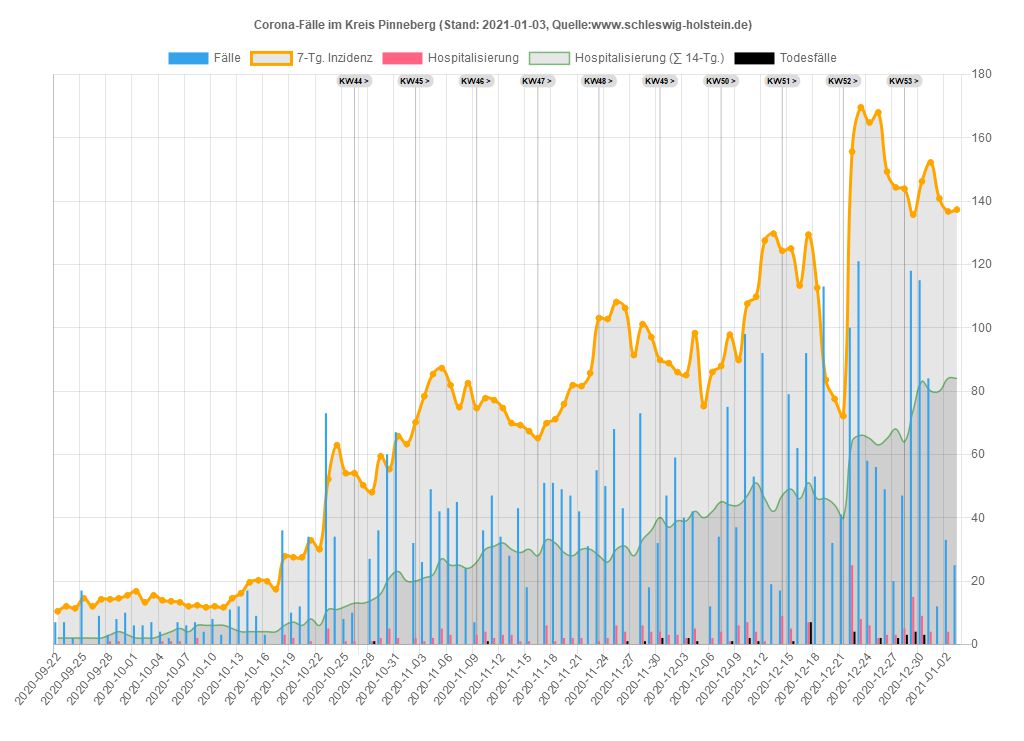
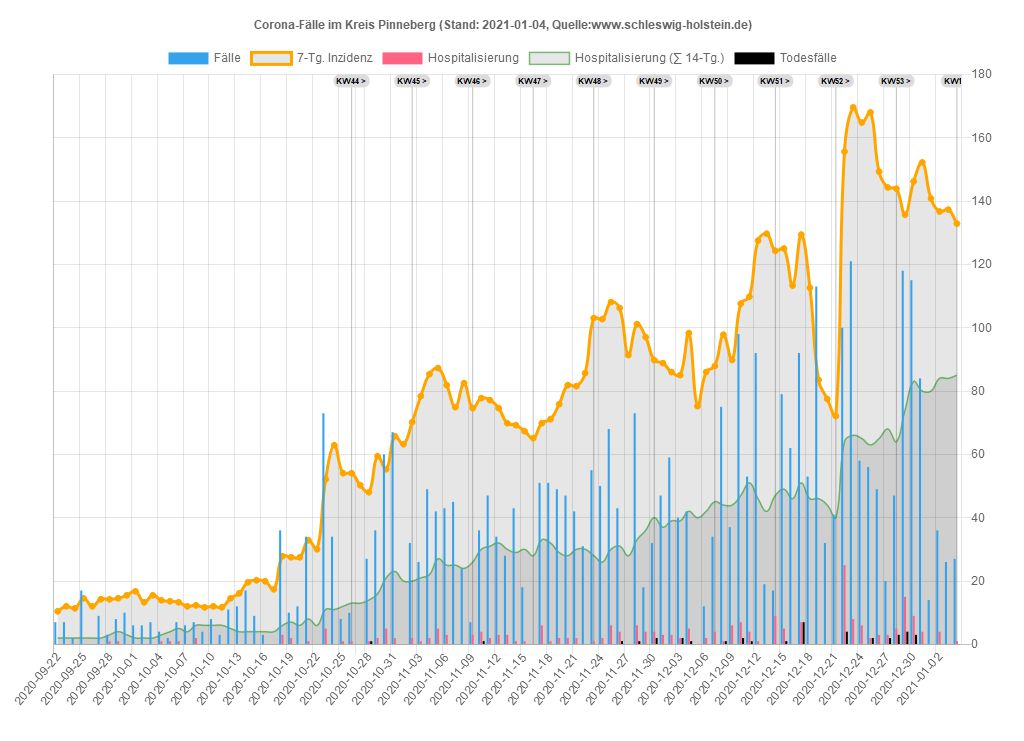
04.01.2021 20:30:50,16

Changed region(s): [[0.0938, 0.0931, 0.9375, 0.9622]]

diff --git a/sh/Data_SH.js b/sh/Data_SH.js
@@ -1,34 +1,34 @@
 var chdata={
-labels: ["2020-09-22","2020-09-23","2020-09-24","2020-09-25","2020-09-26","2020-09-27","2020-09-28","2020-09-29","2020-09-30","2020-10-01","2020-10-02","2020-10-03","2020-10-04","2020-10-05","2020-10-06","2020-10-07","2020-10-08","2020-10-09","2020-10-10","2020-10-11","2020-10-12","2020-10-13","2020-10-14","2020-10-15","2020-10-16","2020-10-17","2020-10-18","2020-10-19","2020-10-20","2020-10-21","2020-10-22","2020-10-23","2020-10-24","2020-10-25","2020-10-26","2020-10-27","2020-10-28","2020-10-29","2020-10-30","2020-10-31","2020-11-01","2020-11-02","2020-11-03","2020-11-04","2020-11-05","2020-11-06","2020-11-07","2020-11-08","2020-11-09","2020-11-10","2020-11-11","2020-11-12","2020-11-13","2020-11-14","2020-11-15","2020-11-16","2020-11-17","2020-11-18","2020-11-19","2020-11-20","2020-11-21","2020-11-22","2020-11-23","2020-11-24","2020-11-25","2020-11-26","2020-11-27","2020-11-28","2020-11-29","2020-11-30","2020-12-01","2020-12-02","2020-12-03","2020-12-04","2020-12-05","2020-12-06","2020-12-07","2020-12-08","2020-12-09","2020-12-10","2020-12-11","2020-12-12","2020-12-13","2020-12-14","2020-12-15","2020-12-16","2020-12-17","2020-12-18","2020-12-19","2020-12-20","2020-12-21","2020-12-22","2020-12-23","2020-12-24","2020-12-25","2020-12-26","2020-12-27","2020-12-28","2020-12-29","2020-12-30","2020-12-31","2021-01-01","2021-01-02","2021-01-03"],
+labels: ["2020-09-22","2020-09-23","2020-09-24","2020-09-25","2020-09-26","2020-09-27","2020-09-28","2020-09-29","2020-09-30","2020-10-01","2020-10-02","2020-10-03","2020-10-04","2020-10-05","2020-10-06","2020-10-07","2020-10-08","2020-10-09","2020-10-10","2020-10-11","2020-10-12","2020-10-13","2020-10-14","2020-10-15","2020-10-16","2020-10-17","2020-10-18","2020-10-19","2020-10-20","2020-10-21","2020-10-22","2020-10-23","2020-10-24","2020-10-25","2020-10-26","2020-10-27","2020-10-28","2020-10-29","2020-10-30","2020-10-31","2020-11-01","2020-11-02","2020-11-03","2020-11-04","2020-11-05","2020-11-06","2020-11-07","2020-11-08","2020-11-09","2020-11-10","2020-11-11","2020-11-12","2020-11-13","2020-11-14","2020-11-15","2020-11-16","2020-11-17","2020-11-18","2020-11-19","2020-11-20","2020-11-21","2020-11-22","2020-11-23","2020-11-24","2020-11-25","2020-11-26","2020-11-27","2020-11-28","2020-11-29","2020-11-30","2020-12-01","2020-12-02","2020-12-03","2020-12-04","2020-12-05","2020-12-06","2020-12-07","2020-12-08","2020-12-09","2020-12-10","2020-12-11","2020-12-12","2020-12-13","2020-12-14","2020-12-15","2020-12-16","2020-12-17","2020-12-18","2020-12-19","2020-12-20","2020-12-21","2020-12-22","2020-12-23","2020-12-24","2020-12-25","2020-12-26","2020-12-27","2020-12-28","2020-12-29","2020-12-30","2020-12-31","2021-01-01","2021-01-02","2021-01-03","2021-01-04"],
 datasets: [
 {label: 'Fälle',
 type: 'bar',
 backgroundColor: window.chartColors.blue,
-data: [38,42,63,53,15,15,38,48,49,27,50,16,24,39,54,45,79,54,26,25,65,65,65,55,90,26,88,163,111,160,136,236,142,115,164,164,280,215,313,265,161,142,236,262,220,274,233,177,215,252,247,192,296,158,161,100,294,208,264,250,153,121,145,251,256,225,180,219,71,81,244,240,245,318,234,154,183,314,297,529,384,472,140,241,486,322,602,508,431,157,211,776,722,306,229,229,202,260,483,528,340,102,290,212]},
+data: [38,42,63,53,15,15,38,48,49,27,50,16,24,39,54,45,79,54,26,25,65,65,65,55,90,26,88,163,111,160,136,236,142,115,164,164,280,215,313,265,161,142,236,262,220,274,233,177,215,252,247,192,296,158,161,100,294,208,264,250,153,121,145,251,256,225,180,219,71,81,244,240,245,318,234,154,183,314,297,529,384,472,140,241,486,322,602,508,431,157,211,776,722,306,229,229,202,260,483,528,340,102,290,212,236]},
 {label: '7-Tg. Inzidenz',
 type: 'line',
 pointBackgroundColor: 'orange',
 borderColor: 'orange',
-data: [7.23197027,7.88629139,8.74724023,9.40156135,9.33268544,9.16049567,9.09161977,9.4359993,9.67706498,8.43729865,8.33398478,8.36842274,8.67836432,8.71280227,8.91943,8.78167818,10.5724518,10.7102036,11.0545831,11.0890211,11.9844079,12.3632254,13.0519844,12.2254735,13.4652399,13.4652399,15.634831,19.0097504,20.5938963,23.8655019,26.6549761,31.6829174,35.67772,36.6075447,36.6419827,38.4671942,42.5997487,45.320347,47.9720694,52.2079377,53.7920836,53.0344486,55.5139813,54.8940981,55.0662879,53.7232077,52.6211932,53.1722004,55.6861711,56.2371783,55.720609,54.7563463,55.5139813,52.9311348,52.3801275,48.4197628,49.8661569,48.5230767,51.0026094,49.4184635,49.2462737,47.8687556,49.4184635,47.9376315,49.5906533,48.2475731,45.8369163,48.1098213,46.3879236,44.1838945,43.9428289,43.3918216,44.0805807,48.8330183,49.3495876,52.2079377,55.720609,58.1312658,60.0942291,69.874608,72.1475129,80.3437459,79.8616145,81.8590158,87.7823439,88.6432927,91.1572633,95.4275696,94.0156135,94.6010587,93.5679201,103.554927,117.330108,107.136474,97.5282848,90.5718181,92.121526,93.8089858,83.7186653,77.0377023,78.2085928,73.8349726,75.9356878,76.2800673]},
+data: [7.23197027,7.88629139,8.74724023,9.40156135,9.33268544,9.16049567,9.09161977,9.4359993,9.67706498,8.43729865,8.33398478,8.36842274,8.67836432,8.71280227,8.91943,8.78167818,10.5724518,10.7102036,11.0545831,11.0890211,11.9844079,12.3632254,13.0519844,12.2254735,13.4652399,13.4652399,15.634831,19.0097504,20.5938963,23.8655019,26.6549761,31.6829174,35.67772,36.6075447,36.6419827,38.4671942,42.5997487,45.320347,47.9720694,52.2079377,53.7920836,53.0344486,55.5139813,54.8940981,55.0662879,53.7232077,52.6211932,53.1722004,55.6861711,56.2371783,55.720609,54.7563463,55.5139813,52.9311348,52.3801275,48.4197628,49.8661569,48.5230767,51.0026094,49.4184635,49.2462737,47.8687556,49.4184635,47.9376315,49.5906533,48.2475731,45.8369163,48.1098213,46.3879236,44.1838945,43.9428289,43.3918216,44.0805807,48.8330183,49.3495876,52.2079377,55.720609,58.1312658,60.0942291,69.874608,72.1475129,80.3437459,79.8616145,81.8590158,87.7823439,88.6432927,91.1572633,95.4275696,94.0156135,94.6010587,93.5679201,103.554927,117.330108,107.136474,97.5282848,90.5718181,92.121526,93.8089858,83.7186653,77.0377023,78.2085928,73.8349726,75.9356878,76.2800673,75.4535565]},
 {label: 'Hospitalisierung',
 type: 'bar',
 backgroundColor: window.chartColors.red,
-data: [1,2,7,1,0,0,2,1,3,1,1,0,4,3,1,1,4,2,0,3,5,1,1,2,4,0,9,10,8,9,12,7,5,6,7,7,11,10,11,6,3,9,19,20,15,15,5,7,13,15,21,13,17,8,17,13,23,10,15,9,7,7,13,16,26,19,12,14,15,10,12,8,10,14,3,5,24,13,26,20,14,12,6,26,27,16,20,18,8,13,13,43,35,23,17,21,26,25,46,33,33,7,20,11]},
+data: [1,2,7,1,0,0,2,1,3,1,1,0,4,3,1,1,4,2,0,3,5,1,1,2,4,0,9,10,8,9,12,7,5,6,7,7,11,10,11,6,3,9,19,20,15,15,5,7,13,15,21,13,17,8,17,13,23,10,15,9,7,7,13,16,26,19,12,14,15,10,12,8,10,14,3,5,24,13,26,20,14,12,6,26,27,16,20,18,8,13,13,43,35,23,17,21,26,25,46,33,33,7,20,11,24]},
 {label: 'Hosp. (∑ 14-Tg.)',
 type: 'line',
 hidden: true,
 borderColor: 'rgba(0,255,0,0.5)',
 borderWidth: 1.5,
 pointRadius: 0,
-data: [12,12,20,22,22,22,22,23,23,21,22,21,24,26,26,25,22,23,23,26,29,29,27,28,31,31,36,43,50,58,66,71,76,79,81,87,97,105,112,118,112,111,122,133,136,144,144,145,151,159,169,172,178,180,194,198,202,192,192,186,188,188,188,189,194,200,195,201,199,196,185,183,178,183,179,177,188,185,185,186,188,186,177,193,208,216,226,230,235,243,232,262,271,274,277,286,306,305,324,341,354,343,355,353]},
+data: [12,12,20,22,22,22,22,23,23,21,22,21,24,26,26,25,22,23,23,26,29,29,27,28,31,31,36,43,50,58,66,71,76,79,81,87,97,105,112,118,112,111,122,133,136,144,144,145,151,159,169,172,178,180,194,198,202,192,192,186,188,188,188,189,194,200,195,201,199,196,185,183,178,183,179,177,188,185,185,186,188,186,177,193,208,216,226,230,235,243,232,262,271,274,277,286,306,305,324,341,354,343,355,353,364]},
 {label: 'Aktuell im Krankenhaus',
 type: 'line',
 pointBackgroundColor: 'green',
 borderColor: 'green',
-data: [6,6,6,6,6,6,6,11,11,11,11,14,14,15,15,14,14,14,13,13,18,18,18,21,24,24,24,24,31,31,31,31,51,51,58,58,58,58,58,58,58,94,110,114,119,118,124,120,126,116,113,119,112,116,116,148,145,151,141,141,141,141,155,142,122,113,118,118,118,124,114,110,109,114,114,114,131,122,128,132,133,133,133,177,181,194,201,212,236,250,275,271,267,262,262,262,262,309,318,322,346,346,376,376]},
+data: [6,6,6,6,6,6,6,11,11,11,11,14,14,15,15,14,14,14,13,13,18,18,18,21,24,24,24,24,31,31,31,31,51,51,58,58,58,58,58,58,58,94,110,114,119,118,124,120,126,116,113,119,112,116,116,148,145,151,141,141,141,141,155,142,122,113,118,118,118,124,114,110,109,114,114,114,131,122,128,132,133,133,133,177,181,194,201,212,236,250,275,271,267,262,262,262,262,309,318,322,346,346,376,376,390]},
 {label: 'Todesfälle',
 type: 'bar',
 backgroundColor: 'black',
-data: [0,0,0,0,0,0,0,1,0,0,0,0,0,0,0,0,0,0,0,0,0,1,0,0,0,0,0,0,0,0,1,0,0,3,0,0,3,4,1,0,2,6,7,2,2,6,0,1,4,3,5,0,5,1,3,5,0,2,2,2,1,0,3,4,1,3,3,1,4,2,3,1,4,1,0,1,4,2,5,7,7,1,2,2,6,7,11,3,2,0,9,15,4,3,4,7,10,18,17,14,2,0,0,0]},
+data: [0,0,0,0,0,0,0,1,0,0,0,0,0,0,0,0,0,0,0,0,0,1,0,0,0,0,0,0,0,0,1,0,0,3,0,0,3,4,1,0,2,6,7,2,2,6,0,1,4,3,5,0,5,1,3,5,0,2,2,2,1,0,3,4,1,3,3,1,4,2,3,1,4,1,0,1,4,2,5,7,7,1,2,2,6,7,11,3,2,0,9,15,4,3,4,7,10,18,17,14,2,0,0,0,1]},
 ]};
 

diff --git a/sh/Data_SH_Alter.js b/sh/Data_SH_Alter.js
@@ -114,7 +114,8 @@ var chdata={
 				{x: '2020-12-31', y: 'Alle', v: 78.5529723, casesum: 2281},{x: '2020-12-31', y: '00-09', v: 25.3192169, casesum: 65},{x: '2020-12-31', y: '10-19', v: 48.911803, casesum: 135},{x: '2020-12-31', y: '20-29', v: 109.700527, casesum: 351},{x: '2020-12-31', y: '30-39', v: 91.6423923, casesum: 308},{x: '2020-12-31', y: '40-49', v: 77.1690314, casesum: 272},{x: '2020-12-31', y: '50-59', v: 77.3111076, casesum: 383},{x: '2020-12-31', y: '60-69', v: 63.268506, casesum: 230},{x: '2020-12-31', y: '70-79', v: 61.8387394, casesum: 183},{x: '2020-12-31', y: '80-89', v: 134.196665, casesum: 240},{x: '2020-12-31', y: '90+', v: 395.613548, casesum: 114},
 				{x: '2021-01-01', y: 'Alle', v: 74.2482281, casesum: 2156},{x: '2021-01-01', y: '00-09', v: 24.5401641, casesum: 63},{x: '2021-01-01', y: '10-19', v: 46.7379451, casesum: 129},{x: '2021-01-01', y: '20-29', v: 103.137248, casesum: 330},{x: '2021-01-01', y: '30-39', v: 84.5014267, casesum: 284},{x: '2021-01-01', y: '40-49', v: 79.1549991, casesum: 279},{x: '2021-01-01', y: '50-59', v: 71.2554072, casesum: 353},{x: '2021-01-01', y: '60-69', v: 58.0419773, casesum: 211},{x: '2021-01-01', y: '70-79', v: 58.1216567, casesum: 172},{x: '2021-01-01', y: '80-89', v: 126.927679, casesum: 227},{x: '2021-01-01', y: '90+', v: 374.791782, casesum: 108},
 				{x: '2021-01-02', y: 'Alle', v: 76.2111914, casesum: 2213},{x: '2021-01-02', y: '00-09', v: 25.7087433, casesum: 66},{x: '2021-01-02', y: '10-19', v: 49.6364223, casesum: 137},{x: '2021-01-02', y: '20-29', v: 102.512173, casesum: 328},{x: '2021-01-02', y: '30-39', v: 86.2866681, casesum: 290},{x: '2021-01-02', y: '40-49', v: 78.5875798, casesum: 277},{x: '2021-01-02', y: '50-59', v: 68.6312704, casesum: 340},{x: '2021-01-02', y: '60-69', v: 58.5921382, casesum: 213},{x: '2021-01-02', y: '70-79', v: 62.8524893, casesum: 186},{x: '2021-01-02', y: '80-89', v: 142.583957, casesum: 255},{x: '2021-01-02', y: '90+', v: 419.905608, casesum: 121},
-				{x: '2021-01-03', y: 'Alle', v: 76.4522571, casesum: 2220},{x: '2021-01-03', y: '00-09', v: 26.0982697, casesum: 67},{x: '2021-01-03', y: '10-19', v: 51.4479705, casesum: 142},{x: '2021-01-03', y: '20-29', v: 106.887693, casesum: 342},{x: '2021-01-03', y: '30-39', v: 87.4768291, casesum: 294},{x: '2021-01-03', y: '40-49', v: 76.8853217, casesum: 271},{x: '2021-01-03', y: '50-59', v: 70.0442672, casesum: 347},{x: '2021-01-03', y: '60-69', v: 58.3170577, casesum: 212},{x: '2021-01-03', y: '70-79', v: 63.8662391, casesum: 189},{x: '2021-01-03', y: '80-89', v: 137.551582, casesum: 246},{x: '2021-01-03', y: '90+', v: 381.732371, casesum: 110}
+				{x: '2021-01-03', y: 'Alle', v: 76.4522571, casesum: 2220},{x: '2021-01-03', y: '00-09', v: 26.0982697, casesum: 67},{x: '2021-01-03', y: '10-19', v: 51.4479705, casesum: 142},{x: '2021-01-03', y: '20-29', v: 106.887693, casesum: 342},{x: '2021-01-03', y: '30-39', v: 87.4768291, casesum: 294},{x: '2021-01-03', y: '40-49', v: 76.8853217, casesum: 271},{x: '2021-01-03', y: '50-59', v: 70.0442672, casesum: 347},{x: '2021-01-03', y: '60-69', v: 58.3170577, casesum: 212},{x: '2021-01-03', y: '70-79', v: 63.8662391, casesum: 189},{x: '2021-01-03', y: '80-89', v: 137.551582, casesum: 246},{x: '2021-01-03', y: '90+', v: 381.732371, casesum: 110},
+				{x: '2021-01-04', y: 'Alle', v: 75.2469287, casesum: 2185},{x: '2021-01-04', y: '00-09', v: 23.7611112, casesum: 61},{x: '2021-01-04', y: '10-19', v: 53.6218284, casesum: 148},{x: '2021-01-04', y: '20-29', v: 101.262025, casesum: 324},{x: '2021-01-04', y: '30-39', v: 87.1792888, casesum: 293},{x: '2021-01-04', y: '40-49', v: 77.1690314, casesum: 272},{x: '2021-01-04', y: '50-59', v: 68.6312704, casesum: 340},{x: '2021-01-04', y: '60-69', v: 59.9675405, casesum: 218},{x: '2021-01-04', y: '70-79', v: 67.2454052, casesum: 199},{x: '2021-01-04', y: '80-89', v: 129.723443, casesum: 232},{x: '2021-01-04', y: '90+', v: 340.08884, casesum: 98}
 			],
 			backgroundColor: function(context) {
 				return inzColor(context.dataset.data[context.dataIndex].v)
@@ -122,7 +123,7 @@ var chdata={
 			width: function(context) {
 				const a = context.chart.chartArea
 				if (!a) return 0
-				return (a.right - a.left) / 111.5
+				return (a.right - a.left) / 112.5
 			},
 			height: function(context) {
 				const a = context.chart.chartArea
@@ -134,7 +135,7 @@ var chdata={
 	options: {
 		legend: { display: false },
 		scales: {
-			xAxes: [{type: 'category', labels: ["2020-09-15","2020-09-16","2020-09-17","2020-09-18","2020-09-19","2020-09-20","2020-09-21","2020-09-22","2020-09-23","2020-09-24","2020-09-25","2020-09-26","2020-09-27","2020-09-28","2020-09-29","2020-09-30","2020-10-01","2020-10-02","2020-10-03","2020-10-04","2020-10-05","2020-10-06","2020-10-07","2020-10-08","2020-10-09","2020-10-10","2020-10-11","2020-10-12","2020-10-13","2020-10-14","2020-10-15","2020-10-16","2020-10-17","2020-10-18","2020-10-19","2020-10-20","2020-10-21","2020-10-22","2020-10-23","2020-10-24","2020-10-25","2020-10-26","2020-10-27","2020-10-28","2020-10-29","2020-10-30","2020-10-31","2020-11-01","2020-11-02","2020-11-03","2020-11-04","2020-11-05","2020-11-06","2020-11-07","2020-11-08","2020-11-09","2020-11-10","2020-11-11","2020-11-12","2020-11-13","2020-11-14","2020-11-15","2020-11-16","2020-11-17","2020-11-18","2020-11-19","2020-11-20","2020-11-21","2020-11-22","2020-11-23","2020-11-24","2020-11-25","2020-11-26","2020-11-27","2020-11-28","2020-11-29","2020-11-30","2020-12-01","2020-12-02","2020-12-03","2020-12-04","2020-12-05","2020-12-06","2020-12-07","2020-12-08","2020-12-09","2020-12-10","2020-12-11","2020-12-12","2020-12-13","2020-12-14","2020-12-15","2020-12-16","2020-12-17","2020-12-18","2020-12-19","2020-12-20","2020-12-21","2020-12-22","2020-12-23","2020-12-24","2020-12-25","2020-12-26","2020-12-27","2020-12-28","2020-12-29","2020-12-30","2020-12-31","2021-01-01","2021-01-02","2021-01-03",], ticks: {display: true},gridlines:{display:false}}],
+			xAxes: [{type: 'category', labels: ["2020-09-15","2020-09-16","2020-09-17","2020-09-18","2020-09-19","2020-09-20","2020-09-21","2020-09-22","2020-09-23","2020-09-24","2020-09-25","2020-09-26","2020-09-27","2020-09-28","2020-09-29","2020-09-30","2020-10-01","2020-10-02","2020-10-03","2020-10-04","2020-10-05","2020-10-06","2020-10-07","2020-10-08","2020-10-09","2020-10-10","2020-10-11","2020-10-12","2020-10-13","2020-10-14","2020-10-15","2020-10-16","2020-10-17","2020-10-18","2020-10-19","2020-10-20","2020-10-21","2020-10-22","2020-10-23","2020-10-24","2020-10-25","2020-10-26","2020-10-27","2020-10-28","2020-10-29","2020-10-30","2020-10-31","2020-11-01","2020-11-02","2020-11-03","2020-11-04","2020-11-05","2020-11-06","2020-11-07","2020-11-08","2020-11-09","2020-11-10","2020-11-11","2020-11-12","2020-11-13","2020-11-14","2020-11-15","2020-11-16","2020-11-17","2020-11-18","2020-11-19","2020-11-20","2020-11-21","2020-11-22","2020-11-23","2020-11-24","2020-11-25","2020-11-26","2020-11-27","2020-11-28","2020-11-29","2020-11-30","2020-12-01","2020-12-02","2020-12-03","2020-12-04","2020-12-05","2020-12-06","2020-12-07","2020-12-08","2020-12-09","2020-12-10","2020-12-11","2020-12-12","2020-12-13","2020-12-14","2020-12-15","2020-12-16","2020-12-17","2020-12-18","2020-12-19","2020-12-20","2020-12-21","2020-12-22","2020-12-23","2020-12-24","2020-12-25","2020-12-26","2020-12-27","2020-12-28","2020-12-29","2020-12-30","2020-12-31","2021-01-01","2021-01-02","2021-01-03","2021-01-04",], ticks: {display: true},gridlines:{display:false}}],
 			yAxes: [{type: 'category', labels: ["Alle","00-09","10-19","20-29","30-39","40-49","50-59","60-69","70-79","80-89","90+"], offset:true, ticks: {display: true},gridlines:{display:false}}],
 		},
 	}

diff --git a/sh/Kreis_PI.js b/sh/Kreis_PI.js
@@ -1,33 +1,33 @@
 var chdata={
-labels: ["2020-09-22","2020-09-23","2020-09-24","2020-09-25","2020-09-26","2020-09-27","2020-09-28","2020-09-29","2020-09-30","2020-10-01","2020-10-02","2020-10-03","2020-10-04","2020-10-05","2020-10-06","2020-10-07","2020-10-08","2020-10-09","2020-10-10","2020-10-11","2020-10-12","2020-10-13","2020-10-14","2020-10-15","2020-10-16","2020-10-17","2020-10-18","2020-10-19","2020-10-20","2020-10-21","2020-10-22","2020-10-23","2020-10-24","2020-10-25","2020-10-26","2020-10-27","2020-10-28","2020-10-29","2020-10-30","2020-10-31","2020-11-01","2020-11-02","2020-11-03","2020-11-04","2020-11-05","2020-11-06","2020-11-07","2020-11-08","2020-11-09","2020-11-10","2020-11-11","2020-11-12","2020-11-13","2020-11-14","2020-11-15","2020-11-16","2020-11-17","2020-11-18","2020-11-19","2020-11-20","2020-11-21","2020-11-22","2020-11-23","2020-11-24","2020-11-25","2020-11-26","2020-11-27","2020-11-28","2020-11-29","2020-11-30","2020-12-01","2020-12-02","2020-12-03","2020-12-04","2020-12-05","2020-12-06","2020-12-07","2020-12-08","2020-12-09","2020-12-10","2020-12-11","2020-12-12","2020-12-13","2020-12-14","2020-12-15","2020-12-16","2020-12-17","2020-12-18","2020-12-19","2020-12-20","2020-12-21","2020-12-22","2020-12-23","2020-12-24","2020-12-25","2020-12-26","2020-12-27","2020-12-28","2020-12-29","2020-12-30","2020-12-31","2021-01-01","2021-01-02","2021-01-03"],
+labels: ["2020-09-22","2020-09-23","2020-09-24","2020-09-25","2020-09-26","2020-09-27","2020-09-28","2020-09-29","2020-09-30","2020-10-01","2020-10-02","2020-10-03","2020-10-04","2020-10-05","2020-10-06","2020-10-07","2020-10-08","2020-10-09","2020-10-10","2020-10-11","2020-10-12","2020-10-13","2020-10-14","2020-10-15","2020-10-16","2020-10-17","2020-10-18","2020-10-19","2020-10-20","2020-10-21","2020-10-22","2020-10-23","2020-10-24","2020-10-25","2020-10-26","2020-10-27","2020-10-28","2020-10-29","2020-10-30","2020-10-31","2020-11-01","2020-11-02","2020-11-03","2020-11-04","2020-11-05","2020-11-06","2020-11-07","2020-11-08","2020-11-09","2020-11-10","2020-11-11","2020-11-12","2020-11-13","2020-11-14","2020-11-15","2020-11-16","2020-11-17","2020-11-18","2020-11-19","2020-11-20","2020-11-21","2020-11-22","2020-11-23","2020-11-24","2020-11-25","2020-11-26","2020-11-27","2020-11-28","2020-11-29","2020-11-30","2020-12-01","2020-12-02","2020-12-03","2020-12-04","2020-12-05","2020-12-06","2020-12-07","2020-12-08","2020-12-09","2020-12-10","2020-12-11","2020-12-12","2020-12-13","2020-12-14","2020-12-15","2020-12-16","2020-12-17","2020-12-18","2020-12-19","2020-12-20","2020-12-21","2020-12-22","2020-12-23","2020-12-24","2020-12-25","2020-12-26","2020-12-27","2020-12-28","2020-12-29","2020-12-30","2020-12-31","2021-01-01","2021-01-02","2021-01-03","2021-01-04"],
 datasets: [
 {label: 'Fälle',
 type: 'bar',
 backgroundColor: window.chartColors.blue,
 yAxisID: 'first-y-axis',
-data: [7,7,2,17,0,9,3,8,10,6,6,7,4,2,7,6,7,4,8,3,11,12,17,9,3,0,36,10,12,34,0,73,34,8,10,0,27,36,60,67,0,32,26,49,42,43,45,24,7,36,47,34,28,43,18,0,51,51,49,47,42,31,55,50,68,43,0,73,18,32,47,59,40,42,0,12,34,75,37,98,53,92,19,17,79,62,92,53,113,32,41,100,121,58,56,49,20,47,118,115,84,12,33,25]},
+data: [7,7,2,17,0,9,3,8,10,6,6,7,4,2,7,6,7,4,8,3,11,12,17,9,3,0,36,10,12,34,0,73,34,8,10,0,27,36,60,67,0,32,26,49,42,43,45,24,7,36,47,34,28,43,18,0,51,51,49,47,42,31,55,50,68,43,0,73,18,32,47,59,40,42,0,12,34,75,37,98,53,92,19,17,79,62,92,53,113,32,41,100,121,58,56,49,20,47,118,115,84,14,36,26,27]},
 {label: '7-Tg. Inzidenz',
 type: 'line',
 pointBackgroundColor: 'orange',
 borderColor: 'orange',
 yAxisID: 'first-y-axis',
-data: [10.4300994,12.0104175,11.3782902,14.5389264,12.0104175,14.2228628,14.2228628,14.5389264,15.4871172,16.7513717,13.2746719,15.4871172,13.9067992,13.5907355,13.2746719,12.0104175,12.3264811,11.6943538,12.0104175,11.6943538,14.5389264,16.1192445,19.5959443,20.2280715,19.9120079,17.383499,27.8135983,27.4975347,27.4975347,32.8706162,30.0260436,52.1504969,62.8966598,54.0468786,54.0468786,50.2541151,48.0416698,59.41996,55.311133,65.7412324,63.2127235,70.166123,78.3837771,85.3371767,87.2335584,81.8604769,74.9070773,82.4926041,74.5910137,77.7516499,77.1195226,74.5910137,69.8500594,69.2179322,67.3215505,65.1091052,69.8500594,71.1143139,75.8552681,81.8604769,81.5444133,85.6532403,103.036739,102.720676,108.093757,106.197375,91.3423854,101.140358,97.0315305,89.7620673,88.8138765,85.9693039,85.021113,98.295785,75.2231409,86.0,87.9,97.8,89.8,107.6,109.8,127.5,129.7,124.3,125.0,113.3,129.4,112.6,83.5,77.5,72.1,155.6,169.6,164.8,168.0,149.3,144.3,143.9,135.7,146.2,152.2,140.8,136.7,137.3]},
+data: [10.4300994,12.0104175,11.3782902,14.5389264,12.0104175,14.2228628,14.2228628,14.5389264,15.4871172,16.7513717,13.2746719,15.4871172,13.9067992,13.5907355,13.2746719,12.0104175,12.3264811,11.6943538,12.0104175,11.6943538,14.5389264,16.1192445,19.5959443,20.2280715,19.9120079,17.383499,27.8135983,27.4975347,27.4975347,32.8706162,30.0260436,52.1504969,62.8966598,54.0468786,54.0468786,50.2541151,48.0416698,59.41996,55.311133,65.7412324,63.2127235,70.166123,78.3837771,85.3371767,87.2335584,81.8604769,74.9070773,82.4926041,74.5910137,77.7516499,77.1195226,74.5910137,69.8500594,69.2179322,67.3215505,65.1091052,69.8500594,71.1143139,75.8552681,81.8604769,81.5444133,85.6532403,103.036739,102.720676,108.093757,106.197375,91.3423854,101.140358,97.0315305,89.7620673,88.8138765,85.9693039,85.021113,98.295785,75.2231409,86.0,87.9,97.8,89.8,107.6,109.8,127.5,129.7,124.3,125.0,113.3,129.4,112.6,83.5,77.5,72.1,155.6,169.6,164.8,168.0,149.3,144.3,143.9,135.7,146.2,152.2,140.8,136.7,137.3,132.9]},
 {label: 'Hospitalisierung',
 type: 'bar',
 backgroundColor: window.chartColors.red,
 yAxisID: 'first-y-axis',
-data: [0,0,0,0,0,0,1,1,0,0,0,0,1,1,1,-1,2,0,0,0,0,0,0,0,0,0,3,2,0,1,0,5,0,1,1,0,1,2,5,2,0,2,1,2,5,3,0,0,3,4,2,3,3,1,1,0,6,1,2,2,2,0,1,2,6,4,0,6,4,4,3,3,2,5,0,2,4,1,6,7,4,1,0,9,5,0,7,0,0,0,0,25,8,6,2,3,3,5,15,9,4,0,4,0]},
+data: [0,0,0,0,0,0,1,1,0,0,0,0,1,1,1,-1,2,0,0,0,0,0,0,0,0,0,3,2,0,1,0,5,0,1,1,0,1,2,5,2,0,2,1,2,5,3,0,0,3,4,2,3,3,1,1,0,6,1,2,2,2,0,1,2,6,4,0,6,4,4,3,3,2,5,0,2,4,1,6,7,4,1,0,9,5,0,7,0,0,0,0,25,8,6,2,3,3,5,15,9,4,0,4,0,1]},
 {label: 'Hospitalisierung (∑ 14-Tg.)',
 type: 'line',
 pointRadius: 0,
 borderColor: 'rgba(0,128,0,0.5)',
 borderWidth: 1.5,
 yAxisID: 'first-y-axis',
-data: [2,2,2,2,2,2,3,4,3,2,2,2,3,4,5,4,6,6,6,6,5,4,4,4,4,4,6,7,6,8,6,11,11,12,13,13,14,16,21,23,20,20,21,22,27,25,25,24,26,30,31,32,30,29,30,28,33,32,29,28,30,30,28,26,30,31,28,33,36,40,37,39,39,42,40,42,45,44,44,47,51,46,42,47,49,46,51,46,46,44,40,64,66,65,63,65,68,64,74,83,80,80,84,84]},
+data: [2,2,2,2,2,2,3,4,3,2,2,2,3,4,5,4,6,6,6,6,5,4,4,4,4,4,6,7,6,8,6,11,11,12,13,13,14,16,21,23,20,20,21,22,27,25,25,24,26,30,31,32,30,29,30,28,33,32,29,28,30,30,28,26,30,31,28,33,36,40,37,39,39,42,40,42,45,44,44,47,51,46,42,47,49,46,51,46,46,44,40,64,66,65,63,65,68,64,74,83,80,80,84,84,85]},
 {label: 'Todesfälle',
 type: 'bar',
 backgroundColor: 'black',
 yAxisID: 'first-y-axis',
-data: [0,0,0,0,0,0,0,0,0,0,0,0,0,0,0,0,0,0,0,0,0,0,0,0,0,0,0,0,0,0,0,0,0,0,0,0,1,0,0,0,0,0,0,0,0,0,0,0,0,1,0,0,0,0,0,0,0,0,0,0,0,0,0,0,0,1,0,1,0,2,0,0,2,1,0,0,0,1,0,2,1,0,0,0,1,0,7,0,0,0,0,4,0,0,2,0,2,3,4,3,0,0,0,0]},
+data: [0,0,0,0,0,0,0,0,0,0,0,0,0,0,0,0,0,0,0,0,0,0,0,0,0,0,0,0,0,0,0,0,0,0,0,0,1,0,0,0,0,0,0,0,0,0,0,0,0,1,0,0,0,0,0,0,0,0,0,0,0,0,0,0,0,1,0,1,0,2,0,0,2,1,0,0,0,1,0,2,1,0,0,0,1,0,7,0,0,0,0,4,0,0,2,0,2,3,4,3,0,0,0,0,0]},
 ]};
 

diff --git a/sh/index_sh_alter.html b/sh/index_sh_alter.html
@@ -5,7 +5,7 @@
 <meta property="og:image" content="index_sh_alter.jpg" />
 <meta property="og:type" content="website" />
 <meta property="og:locale" content="de_DE" />
-<meta property="og:updated_time" content="2021-01-04T17:48:09+01:00" />
+<meta property="og:updated_time" content="2021-01-04T20:30:49+01:00" />
 <title>Altersverteilung der Corona-Fälle in Schleswig-Holstein</title>
 <link rel="stylesheet" href="../css/style.css" media="screen" type="text/css">
 <link rel="stylesheet" media="screen" href="Chart.min.css"> 

diff --git a/sh/index_pi_alter.html b/sh/index_pi_alter.html
@@ -5,7 +5,7 @@
 <meta property="og:image" content="index_pi_alter.jpg" />
 <meta property="og:type" content="website" />
 <meta property="og:locale" content="de_DE" />
-<meta property="og:updated_time" content="2021-01-04T17:48:09+01:00" />
+<meta property="og:updated_time" content="2021-01-04T20:30:49+01:00" />
 <title>Altersverteilung der Corona-Fälle im Kreis Pinneberg</title>
 <link rel="stylesheet" href="../css/style.css" media="screen" type="text/css">
 <link rel="stylesheet" media="screen" href="Chart.min.css"> 

diff --git a/sh/index.html b/sh/index.html
@@ -5,7 +5,7 @@
 <meta property="og:image" content="index.jpg" />
 <meta property="og:type" content="website" />
 <meta property="og:locale" content="de_DE" />
-<meta property="og:updated_time" content="2021-01-04T17:48:09+01:00" />
+<meta property="og:updated_time" content="2021-01-04T20:30:49+01:00" />
 <title>Corona-Fälle im Kreis Pinneberg</title>
 <link rel="stylesheet" href="../css/style.css" media="screen" type="text/css">
 <link rel="stylesheet" media="screen" href="Chart.min.css"> 
